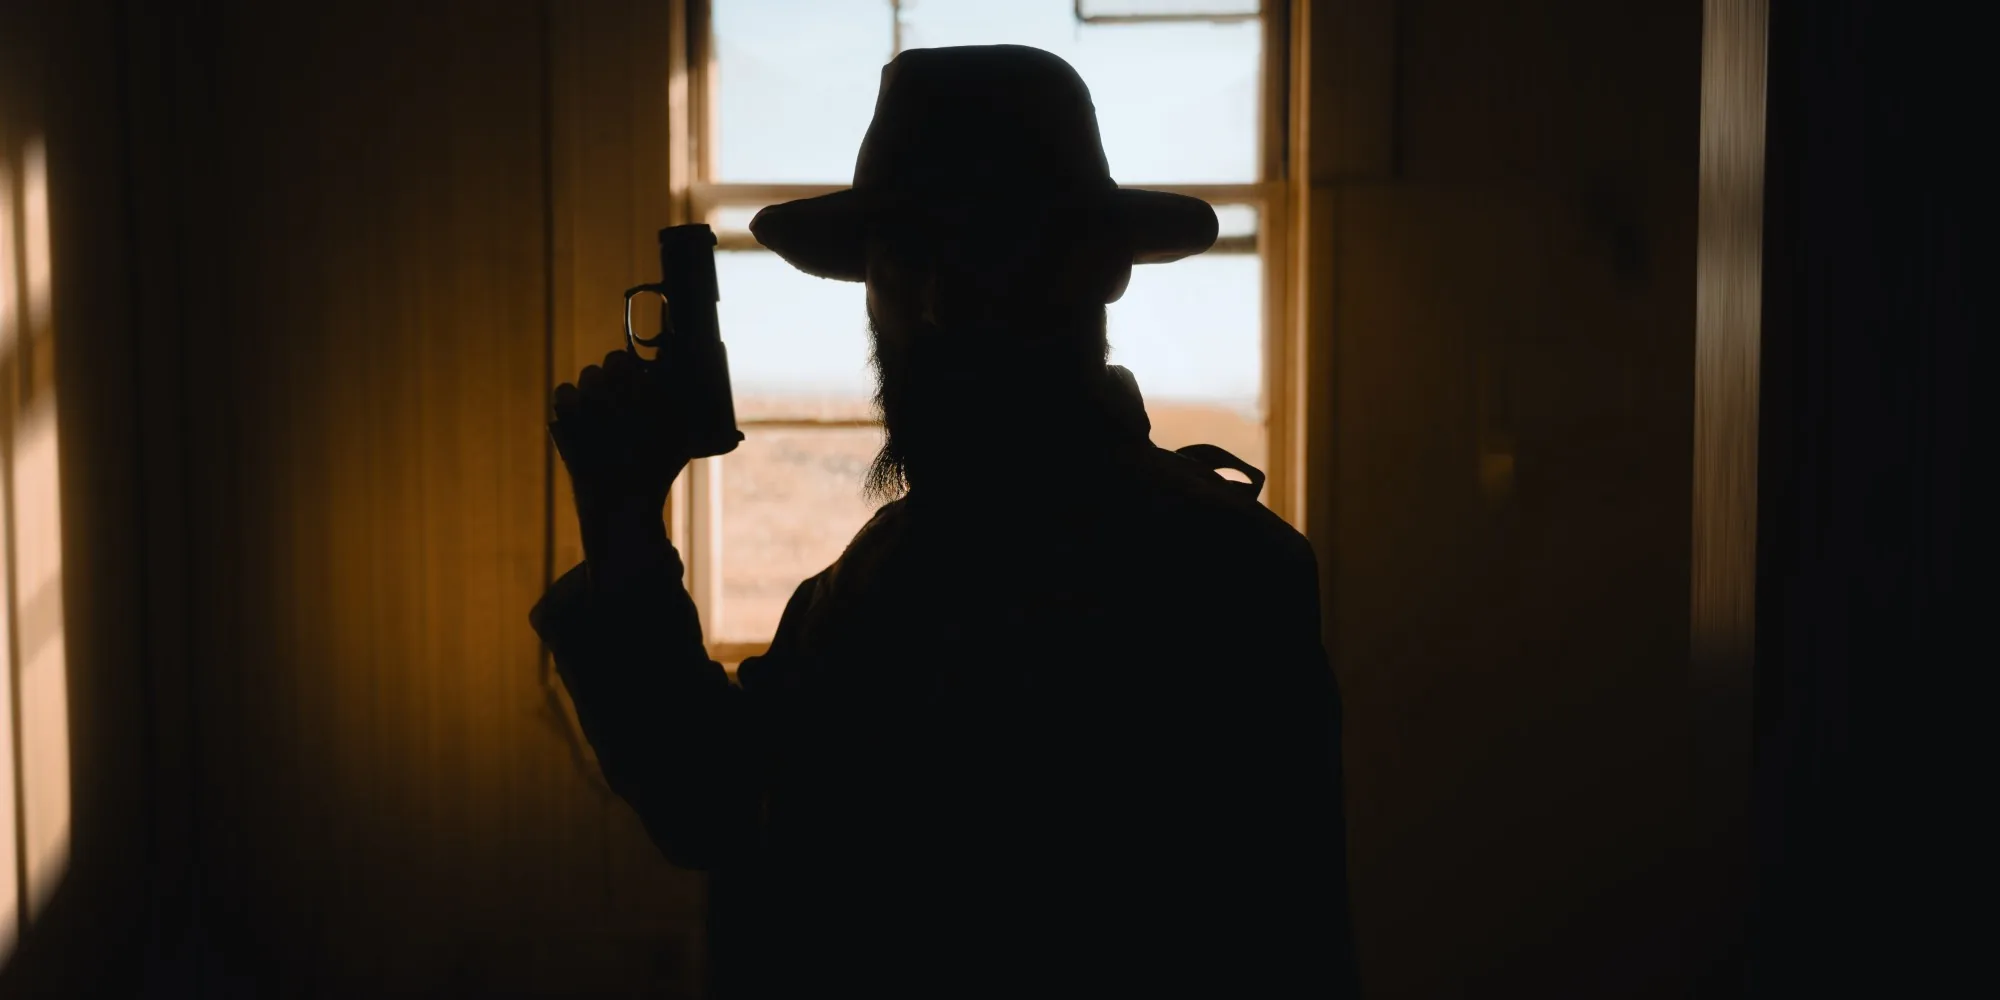
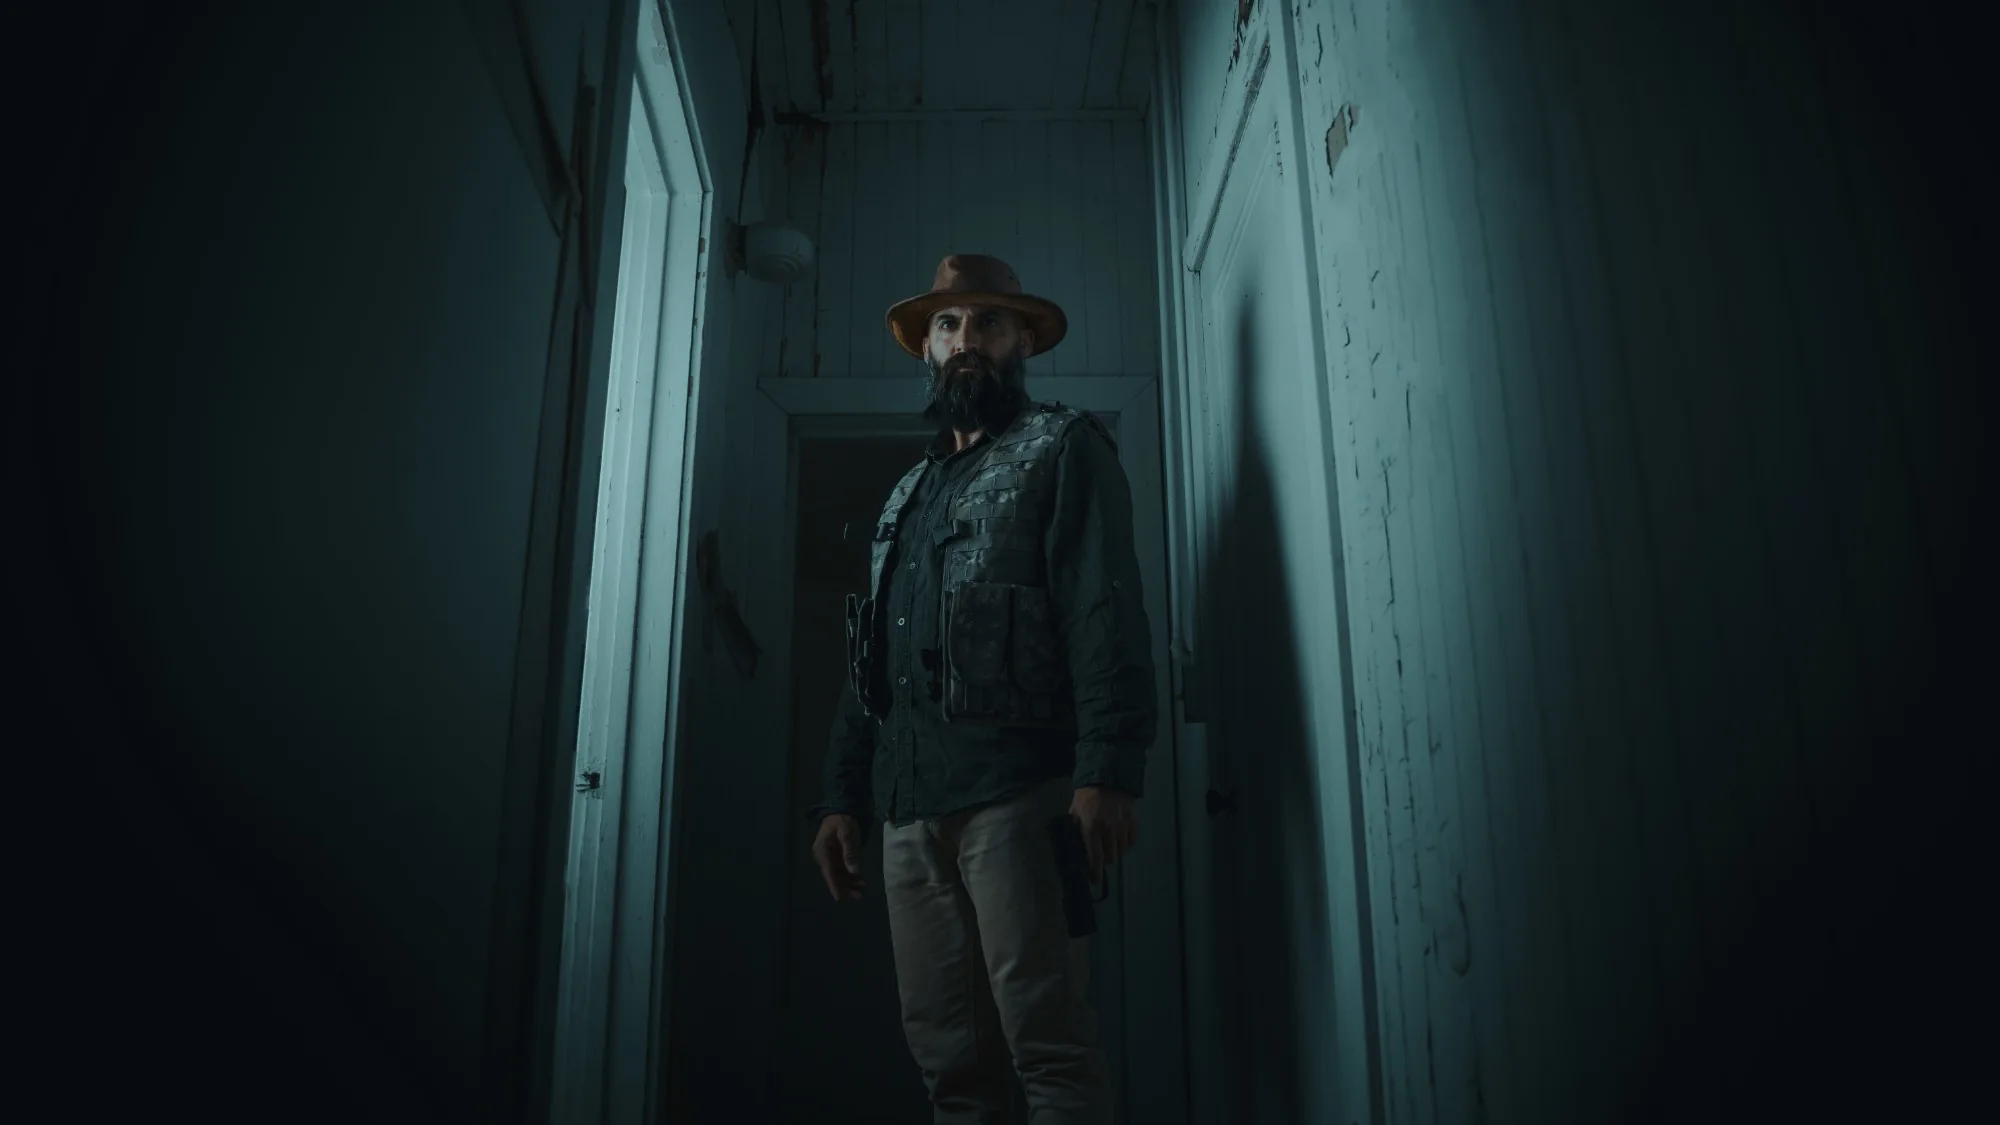
Work page: new Narrative strip image, framed on the subject's face
Claude-Session: https://claude.ai/code/session_01CtCNzNmVHYyjMwNveYBnxH

diff --git a/src/data/work.ts b/src/data/work.ts
@@ -12,7 +12,7 @@ export interface WorkStrip {
 }
 
 export const work: WorkStrip[] = [
-  { slug: '01-narrative', title: 'Narrative', href: '/work/narrative', alt: 'Silhouette of a man in a hat holding a pistol against a bright window', focus: '50% 0%' },
+  { slug: '01-narrative', title: 'Narrative', href: '/work/narrative', alt: 'Bearded man in a hat and tactical vest standing in a dim hallway, pistol at his side', focus: '50% 17%' },
   { slug: '02-aerial', title: 'Aerial', href: '/work/aerial', alt: 'Hazy golden sunset over a desert city valley and mountain range', focus: '50% 46%' },
   { slug: '03-motorsports', title: 'Motorsport', href: '/work/motorsport', alt: 'Black sports car drifting with tyre smoke pouring from the rear wheel', focus: '62% 58%' },
   { slug: '04-portrait', title: 'Portrait', href: '/work/portrait', alt: 'Man in a mustard T-shirt standing in tall grass before rusted industrial towers', focus: '55% 7%', pan: 12 },
